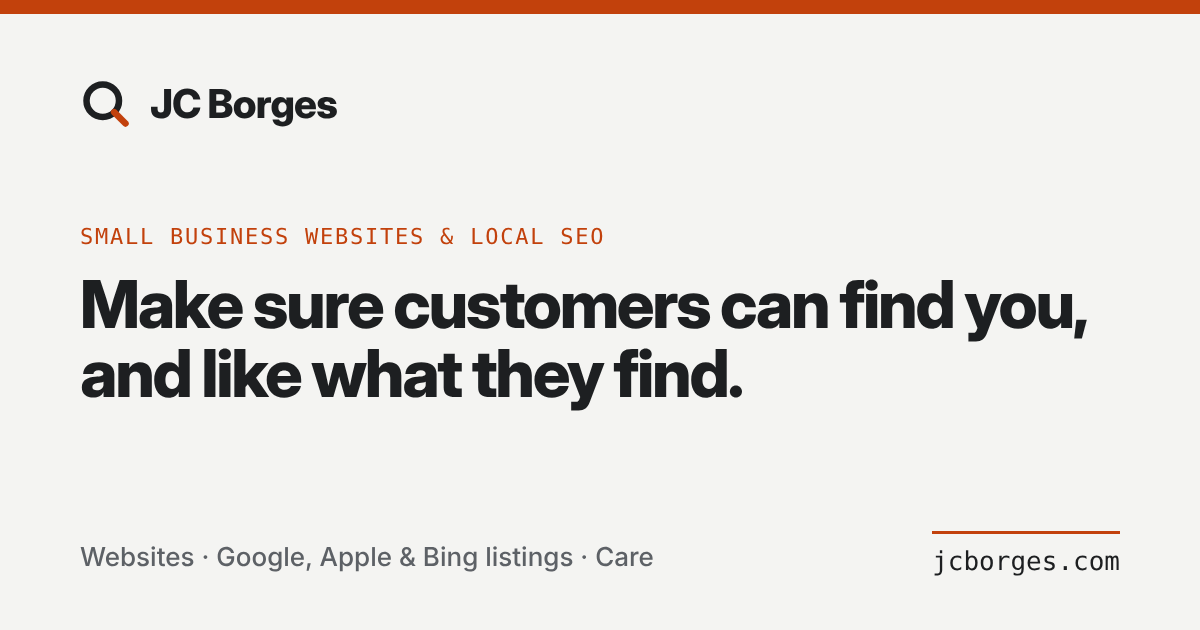
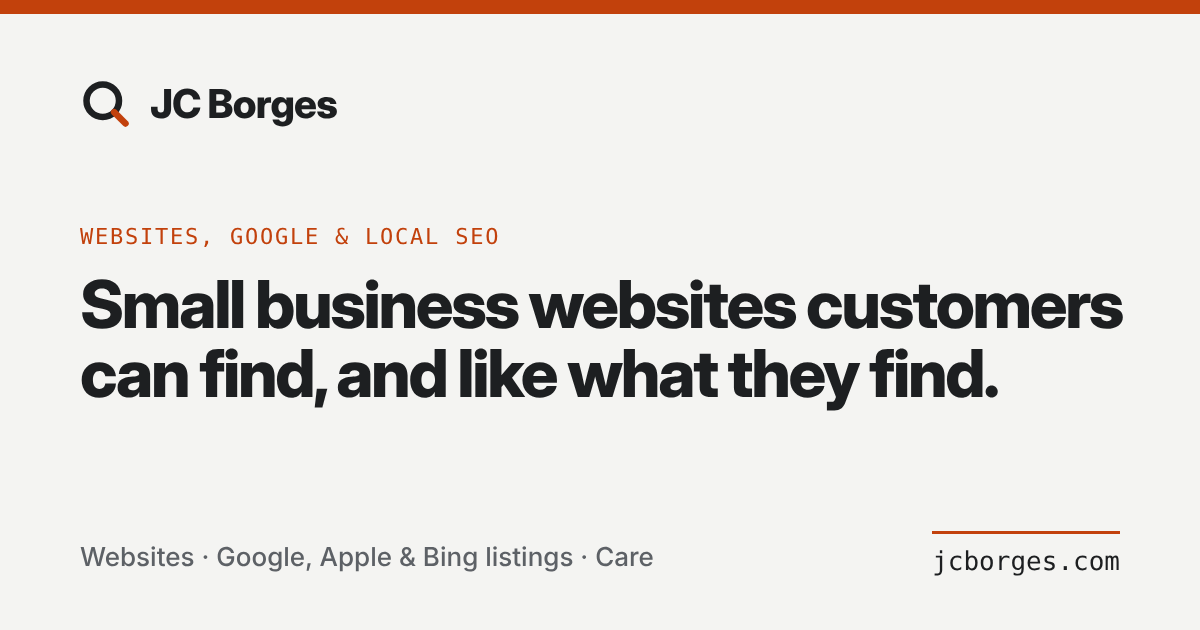
Use the new hero headline, matching share image and full-width FAQ (#10)
* Add end-to-end tests with Playwright

- Playwright tests in e2e/ against the production build, in Chromium
  at desktop and phone (Pixel 7) sizes
- Cover the nav, phone menu, skip link, pricing, the free check form
  (Web3Forms intercepted), public files and an axe scan in both themes
- New e2e job in CI, uploading the report and traces on failure
- npm run test:e2e and test:e2e:ui; Vitest skips e2e/

* Prerender the page, add structured data, FAQ and share image for SEO

* New headline, full-width FAQ, updated share image

---------

Changed region(s): [[0.0617, 0.4222, 0.9558, 0.6635], [0.0617, 0.3619, 0.5242, 0.3921]]

diff --git a/index.html b/index.html
@@ -23,14 +23,14 @@
     />
     <meta
       property="og:description"
-      content="Make sure customers can find you, and like what they find. Websites, Google, Apple and Bing listings, and local SEO for small businesses anywhere. Free online checkup."
+      content="Small business websites customers can find, and like what they find. Plus Google, Apple and Bing listings and local SEO, for small businesses anywhere. Free online checkup."
     />
     <meta property="og:image" content="https://jcborges.com/og-image.png" />
     <meta property="og:image:width" content="1200" />
     <meta property="og:image:height" content="630" />
     <meta
       property="og:image:alt"
-      content="JC Borges: Make sure customers can find you, and like what they find. Small business websites and local SEO."
+      content="JC Borges: Small business websites customers can find, and like what they find."
     />
     <meta name="twitter:card" content="summary_large_image" />
     <link rel="preconnect" href="https://fonts.googleapis.com" />

diff --git a/src/components/hero.tsx b/src/components/hero.tsx
@@ -4,8 +4,8 @@ export default function Hero() {
   return (
     <section className="hero" aria-labelledby="hero-title">
       <div>
-        <p className="label">Small business websites &amp; Google setup</p>
-        <h1 id="hero-title">Make sure customers can find you, and like what they find.</h1>
+        <p className="label">Websites, Google &amp; local SEO</p>
+        <h1 id="hero-title">Small business websites customers can find, and like what they find.</h1>
         <p className="lede">
           A website is only one piece. When someone looks you up, they also need to find you on Google and on
           maps, with the right hours and phone number everywhere. I set all of it up and keep it working, for

diff --git a/e2e/site.spec.ts b/e2e/site.spec.ts
@@ -83,7 +83,7 @@ test('serves prerendered content and structured data to crawlers that skip JavaS
   request,
 }) => {
   const html = await (await request.get('/')).text();
-  expect(html).toMatch(/<h1[^>]*>Make sure customers can find you/);
+  expect(html).toMatch(/<h1[^>]*>Small business websites customers can find/);
   for (const plan of PLAN_GROUPS.flatMap((g) => g.plans)) expect(html).toContain(plan.price);
 
   const json = html.match(/<script type="application\/ld\+json">(.*?)<\/script>/s)?.[1];

diff --git a/src/index.css b/src/index.css
@@ -553,7 +553,6 @@ main > section:first-child {
 
 .faq {
   border-top: 1px solid var(--line);
-  max-width: 860px;
 }
 .faq details {
   border-bottom: 1px solid var(--line);
